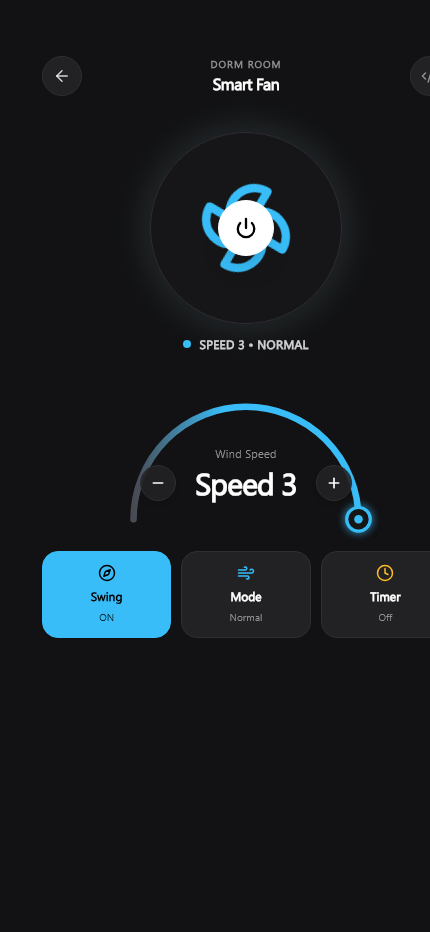
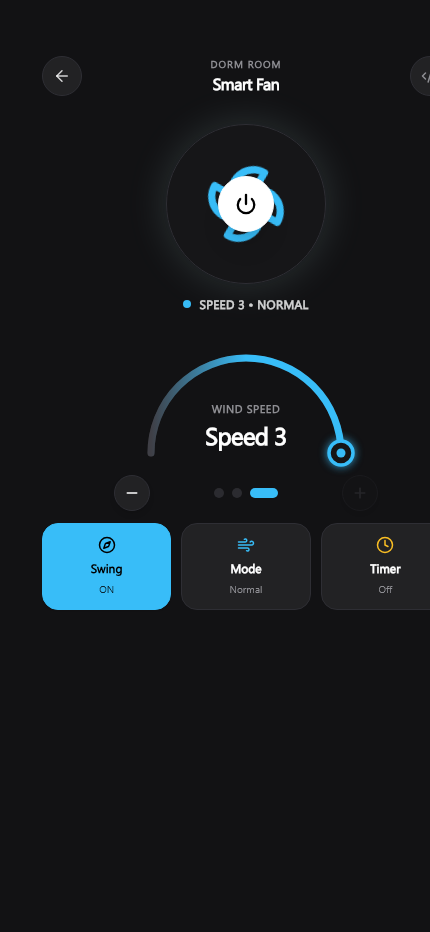
fix(ui): eliminate ArcSlider and Fan Speed overlaps with dedicated stepper row and responsive hub

Changed region(s): [[0.0907, 0.1556, 0.9372, 0.6845]]

diff --git a/src/components/ArcSlider.tsx b/src/components/ArcSlider.tsx
@@ -3,14 +3,14 @@ import { Minus, Plus } from 'lucide-react';
 import { hapticFeedback } from '../services/haptics';
 
 interface ArcSliderProps {
-  value: number; // 0 to 100
+  value: number; // e.g. 1 to 3 or 0 to 100
   onChange: (value: number) => void;
   label?: string;
   unit?: string;
   min?: number;
   max?: number;
   step?: number;
-  accentColor?: string; // e.g. '#F8E5A5' or '#C5F5FA'
+  accentColor?: string; // e.g. '#38BDF8' or '#FB923C'
   displayValueOverride?: string;
   isDarkMode?: boolean;
 }
@@ -23,7 +23,7 @@ export const ArcSlider: React.FC<ArcSliderProps> = ({
   min = 0,
   max = 100,
   step = 1,
-  accentColor = '#F8E5A5',
+  accentColor = '#38BDF8',
   displayValueOverride,
   isDarkMode = true,
 }) => {
@@ -31,19 +31,15 @@ export const ArcSlider: React.FC<ArcSliderProps> = ({
   const [isDragging, setIsDragging] = useState(false);
   const lastHapticValue = useRef(value);
 
-  // Geometry: Upward Dome Arch (∩)
+  // Upward Dome Arch (∩) Geometry
   // Left is 180 degrees, Top is 90 degrees, Right is 0 degrees
   const width = 280;
-  const height = 145;
+  const height = 135;
   const cx = width / 2; // 140
-  const cy = 130;
-  const r = 105;
+  const cy = 125;
+  const r = 95;
 
   const percentage = Math.max(0, Math.min(1, (value - min) / (max - min)));
-  
-  // In standard math radians:
-  // Angle starts at PI (180 deg, left) and goes clockwise to 0 (right) in screen coords:
-  // theta = PI - percentage * PI
   const currentTheta = Math.PI - percentage * Math.PI;
 
   const getPoint = (theta: number) => ({
@@ -51,7 +47,6 @@ export const ArcSlider: React.FC<ArcSliderProps> = ({
     y: cy - r * Math.sin(theta),
   });
 
-  // Describe the upward arc path from start (180 deg) to angle theta
   const describeArc = (toTheta: number) => {
     const start = getPoint(Math.PI);
     const end = getPoint(toTheta);
@@ -62,16 +57,14 @@ export const ArcSlider: React.FC<ArcSliderProps> = ({
   const activePath = describeArc(Math.max(0, Math.min(Math.PI - 0.001, currentTheta)));
   const knobPos = getPoint(currentTheta);
 
-  // Pointer drag logic
   const handlePointer = useCallback(
     (clientX: number, clientY: number) => {
       if (!containerRef.current) return;
       const rect = containerRef.current.getBoundingClientRect();
       const x = clientX - rect.left - cx;
-      const y = cy - (clientY - rect.top); // upward positive
+      const y = cy - (clientY - rect.top);
 
-      // Angle in radians from 0 to PI
-      let angle = Math.atan2(y, -x); // 0 at left (-x), PI at right (+x)
+      let angle = Math.atan2(y, -x);
       if (angle < 0) {
         angle = x > 0 ? Math.PI : 0;
       }
@@ -83,15 +76,14 @@ export const ArcSlider: React.FC<ArcSliderProps> = ({
       let steppedVal = Math.round(rawVal / step) * step;
       steppedVal = Math.max(min, Math.min(max, steppedVal));
 
-      if (steppedVal !== value) {
-        if (Math.abs(steppedVal - lastHapticValue.current) >= 5 || steppedVal === min || steppedVal === max) {
-          hapticFeedback.tick();
-          lastHapticValue.current = steppedVal;
-        }
-        onChange(steppedVal);
+      if (steppedVal !== lastHapticValue.current) {
+        hapticFeedback.tick();
+        lastHapticValue.current = steppedVal;
       }
+
+      onChange(steppedVal);
     },
-    [cx, cy, max, min, onChange, step, value]
+    [min, max, step, onChange, cx, cy]
   );
 
   const onPointerDown = (e: React.PointerEvent<SVGSVGElement>) => {
@@ -116,119 +108,176 @@ export const ArcSlider: React.FC<ArcSliderProps> = ({
   };
 
   const handleDecrement = () => {
-    const next = Math.max(min, value - step * (max > 10 ? 5 : 1));
+    const delta = max <= 5 ? 1 : step * 5;
+    const next = Math.max(min, value - delta);
     hapticFeedback.tick();
     onChange(next);
   };
 
   const handleIncrement = () => {
-    const next = Math.min(max, value + step * (max > 10 ? 5 : 1));
+    const delta = max <= 5 ? 1 : step * 5;
+    const next = Math.min(max, value + delta);
     hapticFeedback.tick();
     onChange(next);
   };
 
   return (
-    <div className="relative flex flex-col items-center select-none py-1 w-full max-w-[300px] mx-auto">
-      <svg
-        ref={containerRef}
-        viewBox={`0 0 ${width} ${height}`}
-        className="w-full h-auto touch-none cursor-pointer overflow-visible"
-        onPointerDown={onPointerDown}
-        onPointerMove={onPointerMove}
-        onPointerUp={onPointerUp}
-      >
-        <defs>
-          <linearGradient id={`arcGrad-${accentColor}`} x1="0%" y1="100%" x2="100%" y2="100%">
-            <stop offset="0%" stopColor="#4A4A52" />
-            <stop offset="40%" stopColor={accentColor} />
-            <stop offset="100%" stopColor={accentColor} />
-          </linearGradient>
-          <filter id="knobGlow" x="-50%" y="-50%" width="200%" height="200%">
-            <feDropShadow dx="0" dy="0" stdDeviation="4" floodColor={accentColor} floodOpacity="0.8" />
-          </filter>
-        </defs>
-
-        {/* Background Track (Upward Dome Arch ∩) */}
-        <path
-          d={trackPath}
-          fill="none"
-          stroke={isDarkMode ? '#27272A' : '#E2E8F0'}
-          strokeWidth="6"
-          strokeLinecap="round"
-        />
-
-        {/* Active Progress Arc */}
-        {percentage > 0.01 && (
-          <path
-            d={activePath}
-            fill="none"
-            stroke={`url(#arcGrad-${accentColor})`}
-            strokeWidth="6"
-            strokeLinecap="round"
-            className="transition-all duration-75"
-          />
-        )}
-
-        {/* Draggable Knob */}
-        <g transform={`translate(${knobPos.x}, ${knobPos.y})`}>
-          <circle
-            r="11"
-            fill={isDarkMode ? '#121214' : '#FFFFFF'}
-            stroke={accentColor}
-            strokeWidth="3"
-            filter="url(#knobGlow)"
-            className="transition-transform active:scale-125"
-          />
-          <circle r="4" fill={accentColor} />
-        </g>
-      </svg>
-
-      {/* Center Readout & Flanking Buttons Inside the Upward Arch */}
-      <div className="absolute inset-0 flex flex-col items-center justify-center pt-8 pointer-events-none">
-        <span
-          className={`text-[11px] font-medium tracking-wide mb-0.5 ${
-            isDarkMode ? 'text-[#8E8E93]' : 'text-slate-500'
-          }`}
+    <div className="relative flex flex-col items-center select-none w-full max-w-[280px] mx-auto">
+      {/* Arch SVG Area */}
+      <div className="relative w-full h-[135px] flex items-center justify-center">
+        <svg
+          ref={containerRef}
+          viewBox={`0 0 ${width} ${height}`}
+          className="w-full h-full touch-none cursor-pointer overflow-visible"
+          onPointerDown={onPointerDown}
+          onPointerMove={onPointerMove}
+          onPointerUp={onPointerUp}
         >
-          {label}
-        </span>
+          <defs>
+            <linearGradient id={`arcGrad-${accentColor}`} x1="0%" y1="100%" x2="100%" y2="100%">
+              <stop offset="0%" stopColor="#3F3F46" />
+              <stop offset="50%" stopColor={accentColor} />
+              <stop offset="100%" stopColor={accentColor} />
+            </linearGradient>
+            <filter id="knobGlow" x="-50%" y="-50%" width="200%" height="200%">
+              <feDropShadow dx="0" dy="0" stdDeviation="4" floodColor={accentColor} floodOpacity="0.8" />
+            </filter>
+          </defs>
 
-        <div className="flex items-center justify-between w-[220px] px-1 pointer-events-auto">
-          {/* Decrement Button */}
-          <button
-            onClick={handleDecrement}
-            className={`w-9 h-9 rounded-full flex items-center justify-center transition-all shadow-md active:scale-90 border ${
-              isDarkMode
-                ? 'bg-surface/90 hover:bg-surface-hover border-surface-border text-white'
-                : 'bg-white hover:bg-slate-50 border-slate-200 text-slate-800'
+          {/* Background Track */}
+          <path
+            d={trackPath}
+            fill="none"
+            stroke={isDarkMode ? '#27272A' : '#E2E8F0'}
+            strokeWidth="7"
+            strokeLinecap="round"
+          />
+
+          {/* Active Progress Arc */}
+          {percentage > 0.01 && (
+            <path
+              d={activePath}
+              fill="none"
+              stroke={`url(#arcGrad-${accentColor})`}
+              strokeWidth="7"
+              strokeLinecap="round"
+              className="transition-all duration-75"
+            />
+          )}
+
+          {/* Draggable Knob */}
+          <g transform={`translate(${knobPos.x}, ${knobPos.y})`}>
+            <circle
+              r="12"
+              fill={isDarkMode ? '#121214' : '#FFFFFF'}
+              stroke={accentColor}
+              strokeWidth="3.5"
+              filter="url(#knobGlow)"
+              className="transition-transform active:scale-125"
+            />
+            <circle r="4.5" fill={accentColor} />
+          </g>
+        </svg>
+
+        {/* Center Readout (NO BUTTONS HERE - Absolutely zero overlap with the knob!) */}
+        <div className="absolute inset-x-0 bottom-3 flex flex-col items-center justify-center pointer-events-none">
+          <span
+            className={`text-[11px] font-semibold tracking-wider uppercase mb-0.5 ${
+              isDarkMode ? 'text-accent-muted' : 'text-slate-500'
             }`}
-            aria-label="Decrease"
           >
-            <Minus size={16} strokeWidth={2.5} />
-          </button>
-
-          {/* Big Bold Value */}
+            {label}
+          </span>
           <div
-            className={`text-3xl font-extrabold tracking-tight select-none ${
+            className={`text-2xl sm:text-3xl font-extrabold tracking-tight select-none ${
               isDarkMode ? 'text-white' : 'text-slate-900'
             }`}
           >
             {displayValueOverride !== undefined ? displayValueOverride : `${value}${unit}`}
           </div>
-
-          {/* Increment Button */}
-          <button
-            onClick={handleIncrement}
-            className={`w-9 h-9 rounded-full flex items-center justify-center transition-all shadow-md active:scale-90 border ${
-              isDarkMode
-                ? 'bg-surface/90 hover:bg-surface-hover border-surface-border text-white'
-                : 'bg-white hover:bg-slate-50 border-slate-200 text-slate-800'
-            }`}
-            aria-label="Increase"
-          >
-            <Plus size={16} strokeWidth={2.5} />
-          </button>
         </div>
+      </div>
+
+      {/* Stepper Controls Positioned Cleanly BELOW the Arc */}
+      <div className="flex items-center justify-between w-full px-2 mt-3 z-10">
+        {/* Decrement Button */}
+        <button
+          onClick={handleDecrement}
+          disabled={value <= min}
+          className={`w-9 h-9 rounded-full flex items-center justify-center transition-all shadow-md active:scale-90 border ${
+            value <= min
+              ? isDarkMode
+                ? 'opacity-30 cursor-not-allowed bg-surface/40 border-surface-border text-zinc-600'
+                : 'opacity-40 cursor-not-allowed bg-slate-100 border-slate-200 text-slate-400'
+              : isDarkMode
+              ? 'bg-surface hover:bg-surface-hover border-surface-border text-white'
+              : 'bg-white hover:bg-slate-50 border-slate-200 text-slate-800'
+          }`}
+          aria-label="Decrease"
+        >
+          <Minus size={16} strokeWidth={2.5} />
+        </button>
+
+        {/* Stepper Pills / Mini Progress Indicator */}
+        {max <= 5 ? (
+          <div className="flex items-center gap-2">
+            {Array.from({ length: max - min + 1 }, (_, i) => min + i).map((stepVal) => {
+              const isCurrent = value === stepVal;
+              return (
+                <button
+                  key={stepVal}
+                  onClick={() => {
+                    hapticFeedback.tick();
+                    onChange(stepVal);
+                  }}
+                  className={`h-2.5 rounded-full transition-all duration-300 ${
+                    isCurrent ? 'w-7 shadow-sm' : 'w-2.5 opacity-40 hover:opacity-80'
+                  }`}
+                  style={{
+                    backgroundColor: isCurrent
+                      ? accentColor
+                      : isDarkMode
+                      ? '#52525B'
+                      : '#CBD5E1',
+                  }}
+                  title={`Level ${stepVal}`}
+                />
+              );
+            })}
+          </div>
+        ) : (
+          <div
+            className={`w-28 h-2 rounded-full overflow-hidden border ${
+              isDarkMode ? 'bg-zinc-800 border-surface-border' : 'bg-slate-200 border-slate-300'
+            }`}
+          >
+            <div
+              className="h-full rounded-full transition-all duration-150"
+              style={{
+                width: `${percentage * 100}%`,
+                backgroundColor: accentColor,
+              }}
+            />
+          </div>
+        )}
+
+        {/* Increment Button */}
+        <button
+          onClick={handleIncrement}
+          disabled={value >= max}
+          className={`w-9 h-9 rounded-full flex items-center justify-center transition-all shadow-md active:scale-90 border ${
+            value >= max
+              ? isDarkMode
+                ? 'opacity-30 cursor-not-allowed bg-surface/40 border-surface-border text-zinc-600'
+                : 'opacity-40 cursor-not-allowed bg-slate-100 border-slate-200 text-slate-400'
+              : isDarkMode
+              ? 'bg-surface hover:bg-surface-hover border-surface-border text-white'
+              : 'bg-white hover:bg-slate-50 border-slate-200 text-slate-800'
+          }`}
+          aria-label="Increase"
+        >
+          <Plus size={16} strokeWidth={2.5} />
+        </button>
       </div>
     </div>
   );

diff --git a/src/views/FanControllerView.tsx b/src/views/FanControllerView.tsx
@@ -118,9 +118,9 @@ export const FanControllerView: React.FC<FanControllerViewProps> = ({
         </div>
 
         {/* Fan Hub Visual */}
-        <div className="relative flex flex-col items-center justify-center py-4">
+        <div className="relative flex flex-col items-center justify-center py-2">
           <div
-            className={`w-48 h-48 rounded-full border flex items-center justify-center transition-all duration-700 relative ${
+            className={`w-40 h-40 sm:w-44 sm:h-44 rounded-full border flex items-center justify-center transition-all duration-700 relative ${
               state.isOn
                 ? isDarkMode
                   ? 'shadow-[0_0_40px_rgba(197,245,250,0.15)] bg-surface/30 border-surface-border'
@@ -132,13 +132,13 @@ export const FanControllerView: React.FC<FanControllerViewProps> = ({
           >
             {/* Spinning Fan Blade */}
             <div
-              className="w-36 h-36 flex items-center justify-center transition-transform"
+              className="w-32 h-32 flex items-center justify-center transition-transform"
               style={{
                 animation: state.isOn ? `spin ${animationDuration} linear infinite` : 'none',
               }}
             >
               <Fan
-                size={100}
+                size={86}
                 className={state.isOn ? 'text-sky-400' : isDarkMode ? 'text-zinc-600' : 'text-slate-400'}
               />
             </div>
